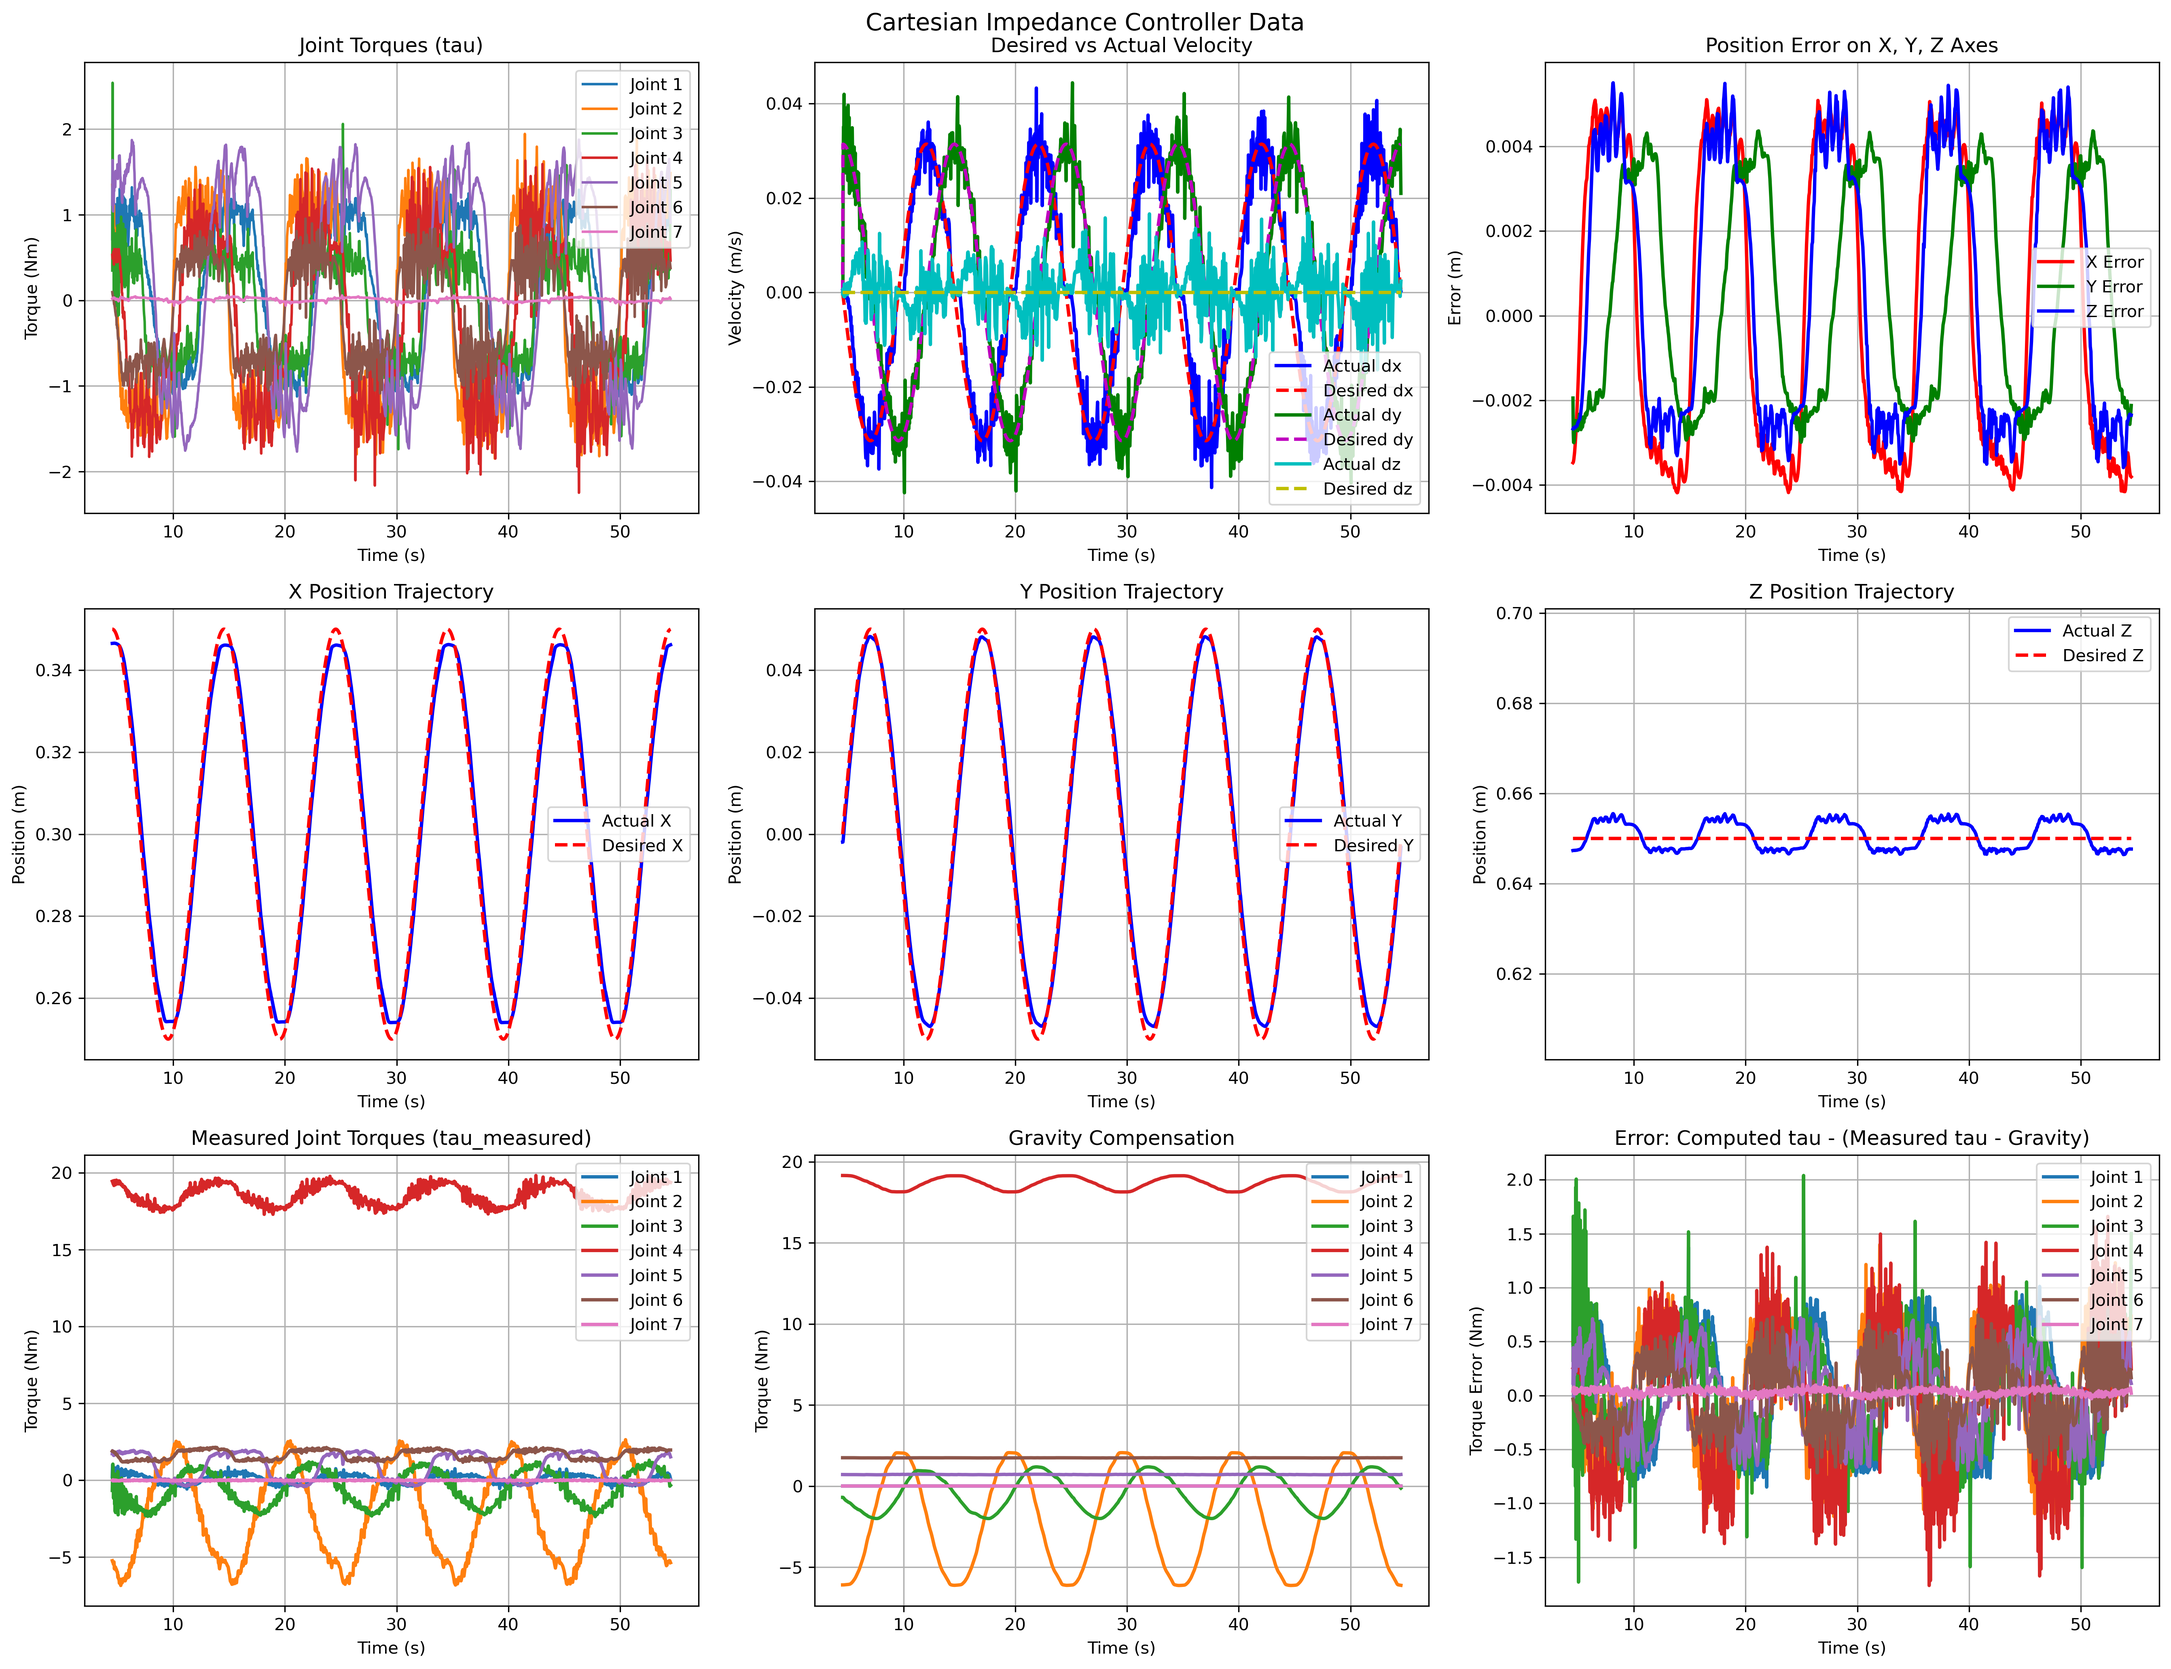
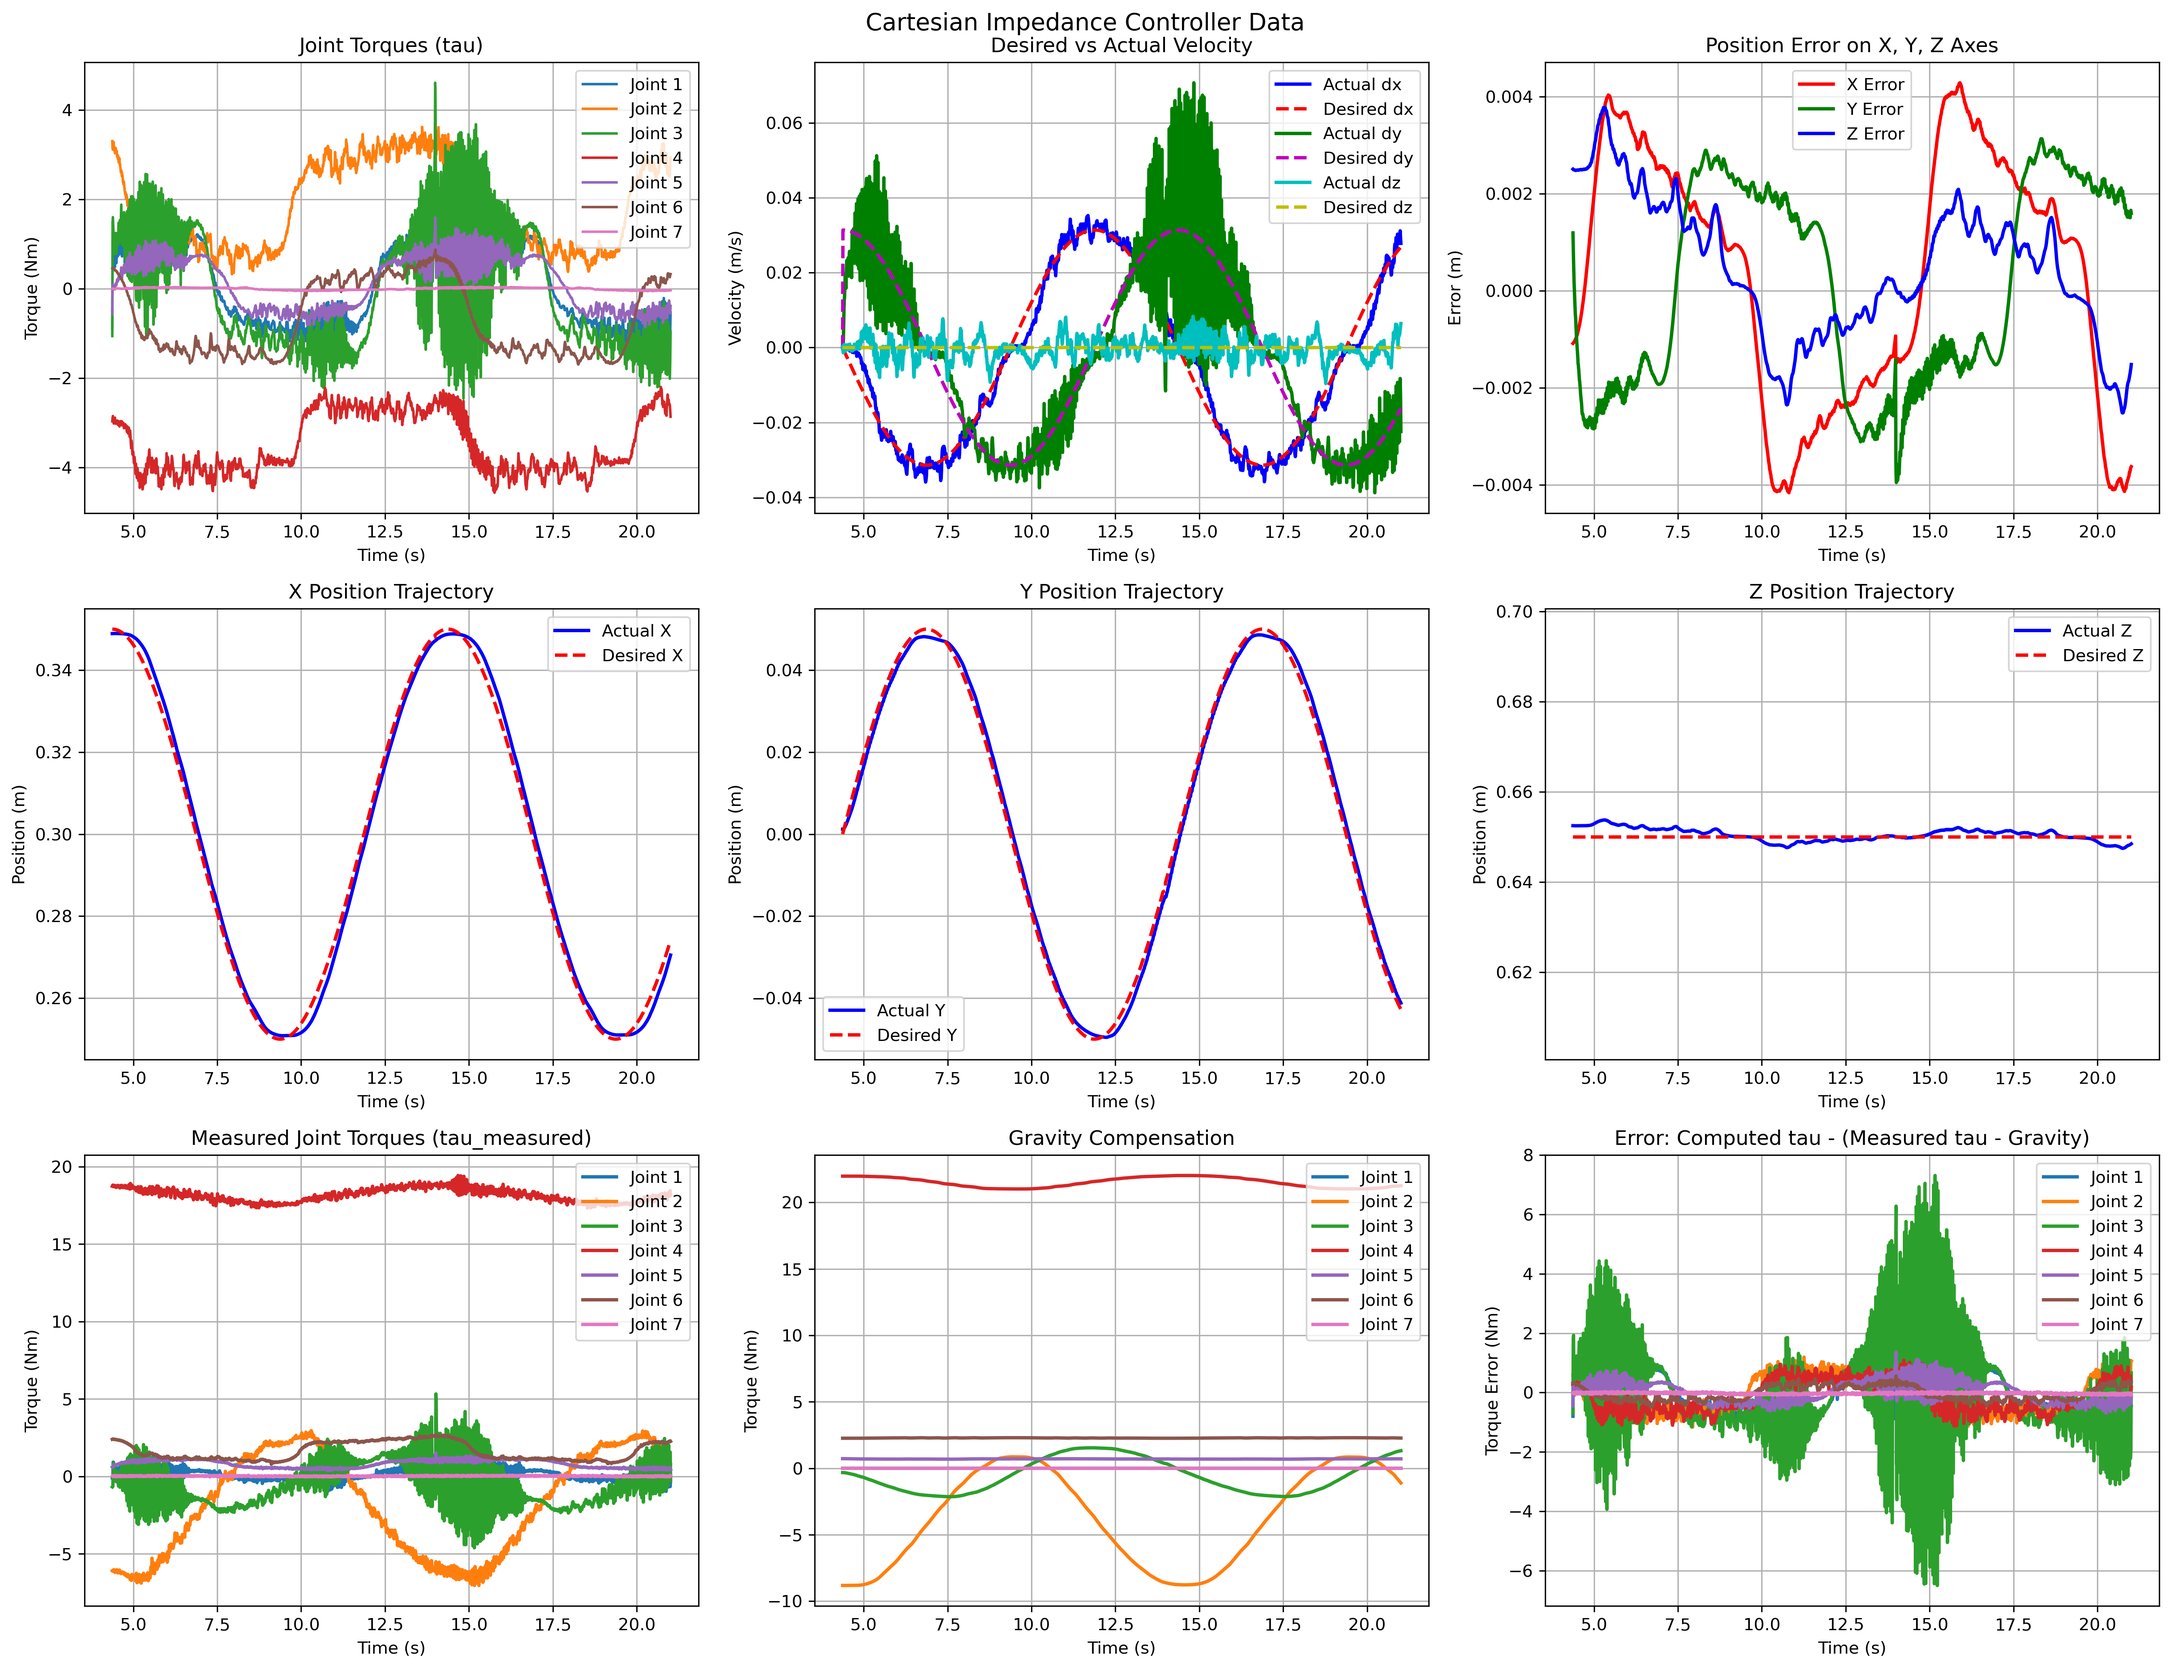
pid tuning

diff --git a/new_structure/py_controllers/py_controllers/cartesian_impedance.py b/new_structure/py_controllers/py_controllers/cartesian_impedance.py
@@ -53,15 +53,15 @@ class CartesianImpedanceController(Node):
             Bool, "/shutdown_control", self.shutdown_callback, 10
         )
         
-        self.declare_parameter('k_pd', [24.0, 24.0, 24.0, 24.0, 10.0, 6.0, 2.0])    # k_gains in PD control (joint space)
-        self.declare_parameter('d_pd', [16.0, 16.0, 16.0, 16.0, 10.0, 6.0, 2.0])    # d_gains in PD control (joint space)
+        self.declare_parameter('k_pd', [24.0, 24.0, 24.0, 24.0, 10.0, 6.0, 4.0])    # k_gains in PD control (joint space)
+        self.declare_parameter('d_pd', [16.0, 16.0, 16.0, 16.0, 10.0, 6.0, 1.0])    # d_gains in PD control (joint space)
         self.declare_parameter('i_pid', [1.0, 1.0, 1.0, 1.0, 0.5, 0.5, 0.5])        # i_gains supplement to PD control (joint space)
         self.k_pd = np.array(self.get_parameter('k_pd').value, dtype=float)
         self.d_pd = np.array(self.get_parameter('d_pd').value, dtype=float)
         self.i_pid = np.array(self.get_parameter('i_pid').value, dtype=float)
         self.i_error = np.zeros(7)
 
-        self.declare_parameter('k_gains', [1500.0, 1000.0, 1000.0, 75.0, 75.0, 0.0])   # k_gains in impedance control (task space)
+        self.declare_parameter('k_gains', [1750.0, 1250.0, 1250.0, 75.0, 75.0, 0.0])   # k_gains in impedance control (task space)
         self.k_gains = np.array(self.get_parameter('k_gains').value, dtype=float)
         self.K_gains = np.diag(self.k_gains)
         self.eta = 1.0                                                              # for calculating d_gains
@@ -89,6 +89,12 @@ class CartesianImpedanceController(Node):
         self.x_des = None                   # desired position from task space command
         self.dx_des = None                  # desired velocity from task space command
         self.ddx_des = None                 # desired acceleration from task space command
+
+        self.x_i_error = np.zeros(6, dtype=float)
+        self.i_gains = np.array([600.0, 300.0, 400.0, 0.0, 0.0, 0.0], dtype=float)
+        self.prev_x_error = np.zeros(6, dtype=float)
+        self.prev_dx_error = np.zeros(6, dtype=float)
+
         self.rotation_matrix_des = np.array(
             [[1, 0, 0], [0, -1, 0], [0, 0, -1]], dtype=float)   # desired rotation matrix, z axis perpendicular to ground
         # joint position control state
@@ -392,6 +398,7 @@ class CartesianImpedanceController(Node):
                     # PD control for joint positions
                     self.i_error = self.i_error + (self.q_des - q) * dt
                     tau = self.k_pd * (self.q_des - q) + self.d_pd * (self.dq_des - dq) + self.i_pid * self.i_error
+                    # tau = self.k_pd * (self.q_des - q) + self.d_pd * (self.dq_des - dq)
                     tau = np.clip(tau, -50.0, 50.0)
                     
                     # publish effort command
@@ -465,7 +472,27 @@ class CartesianImpedanceController(Node):
             d_gains = 2 * self.eta * np.sqrt(eigvals @ self.K_gains)
             D_gains = np.diag(d_gains)
             
-            pd_term = self.K_gains @ x_error + D_gains @ dx_error
+            # 只对 Z 轴积分
+            # 分别对 x / y / z 三个方向积分
+
+            self.x_i_error[0] += x_error[0] * dt
+            self.x_i_error[0] = np.clip(self.x_i_error[0], -0.02, 0.02)
+
+            self.x_i_error[1] += x_error[1] * dt
+            self.x_i_error[1] = np.clip(self.x_i_error[1], -0.15, 0.15)
+
+            self.x_i_error[2] += x_error[2] * dt
+            self.x_i_error[2] = np.clip(self.x_i_error[2], -0.15, 0.15)
+
+            # 三个方向各自的积分项
+            i_term = np.zeros(6)
+            i_term[0] = self.i_gains[0] * self.x_i_error[0]   # X
+            i_term[1] = self.i_gains[1] * self.x_i_error[1]   # Y
+            i_term[2] = self.i_gains[2] * self.x_i_error[2]   # Z
+
+            pd_term = self.K_gains @ x_error + D_gains @ dx_error + i_term
+            
+            # pd_term = self.K_gains @ x_error + D_gains @ dx_error
             tau = (
                 mass_matrix @ jacobian_pinv @ self.ddx_des[:5]
                 + (coriolis_matrix - mass_matrix @ jacobian_pinv@ djacobian)
